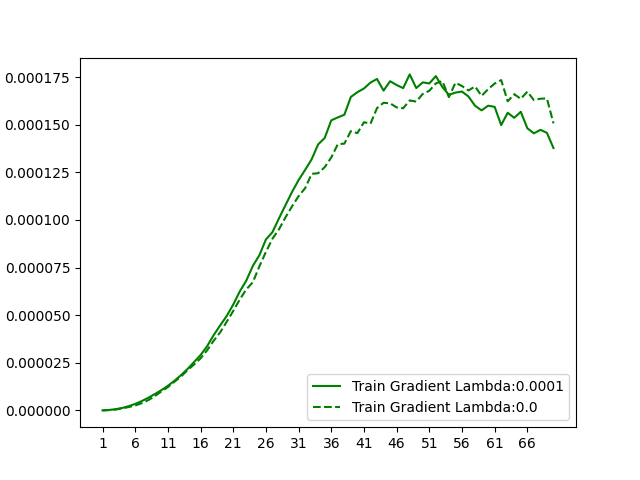
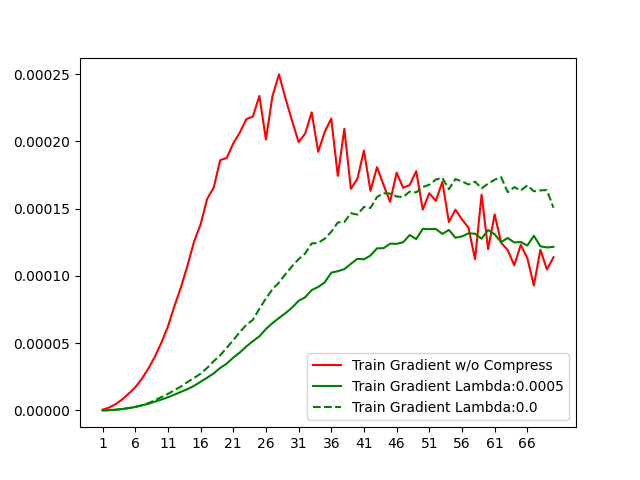
Modify Keys and Argument Parser

diff --git a/CIFAR10/split_compress_recon/plot_recloss.py b/CIFAR10/split_compress_recon/plot_recloss.py
@@ -5,44 +5,55 @@ import numpy as np
 from matplotlib.pyplot import cm
 from numpy import core
 Dir = os.path.join(os.path.dirname(__file__), "Lambda Log")
+No_Compress_Dir = os.path.join(os.path.dirname(
+    __file__), "..", "split", "log", "Gradient_Loss")
 colors = cm.rainbow(np.linspace(0, 1, 3))
 # Rec loss of The testing feature
 with open(os.path.join(Dir, 'test_rec_loss_64_0.0.csv'), 'r') as f:
     test_rec_00 = list(map(float, f.readline().split(',')))[:20]
-with open(os.path.join(Dir, 'test_rec_loss_64_0.0001.csv'), 'r') as f:
-    test_rec_00001 = list(map(float, f.readline().split(',')))[:20]
+with open(os.path.join(Dir, 'test_rec_loss_64_0.0005.csv'), 'r') as f:
+    test_rec_00005 = list(map(float, f.readline().split(',')))[:20]
+with open(os.path.join(No_Compress_Dir, 'test_rec_loss_64.csv'), 'r') as f:
+    test_rec_nocp = list(map(float, f.readline().split(',')))[:20]
 
 # Rec loss of the training feature
 with open(os.path.join(Dir, 'train_rec_loss_64_0.0.csv'), 'r') as f:
     train_rec_00 = list(map(float, f.readline().split(',')))[:20]
-with open(os.path.join(Dir, 'train_rec_loss_64_0.0001.csv'), 'r') as f:
-    train_rec_00001 = list(map(float, f.readline().split(',')))[:20]
+with open(os.path.join(Dir, 'train_rec_loss_64_0.0005.csv'), 'r') as f:
+    train_rec_00005 = list(map(float, f.readline().split(',')))[:20]
+with open(os.path.join(No_Compress_Dir, 'train_rec_loss_64.csv'), 'r') as f:
+    train_rec_nocp = list(map(float, f.readline().split(',')))[:20]
 
 # Rec loss of the training gradient
 with open(os.path.join(Dir, 'train_grad_rec_loss_64_0.0.csv'), 'r') as f:
     train_grad_rec_00 = list(map(float, f.readline().split(',')))[:70]
-with open(os.path.join(Dir, 'train_grad_rec_loss_64_0.0001.csv'), 'r') as f:
-    train_grad_rec_00001 = list(map(float, f.readline().split(',')))[:70]
+with open(os.path.join(Dir, 'train_grad_rec_loss_64_0.0005.csv'), 'r') as f:
+    train_grad_rec_00005 = list(map(float, f.readline().split(',')))[:70]
+with open(os.path.join(No_Compress_Dir, 'train_grad_rec_loss_64.csv'), 'r') as f:
+    train_grad_rec_nocp = list(map(float, f.readline().split(',')))[:70]
 
-
-plt.plot(range(1, len(train_rec_00001)+1), train_rec_00001,
-         color=colors[0], linestyle='-', label='Train Feature Lambda:0.0001')
+plt.plot(range(1, len(train_rec_nocp)+1), train_rec_nocp,
+         color=colors[1], linestyle='-', label='Train Feature w/o Compress')
+plt.plot(range(1, len(train_rec_00005)+1), train_rec_00005,
+         color=colors[0], linestyle='-', label='Train Feature Lambda:0.0005')
 plt.plot(range(1, len(train_rec_00)+1), train_rec_00,
          color=colors[0], linestyle='--', label='Train Feature Lambda:0.0')
-plt.plot(range(1, len(test_rec_00001)+1), test_rec_00001,
-         color=colors[2], linestyle='-', label='Test Feature Lambda:0.0001')
-plt.plot(range(1, len(test_rec_00)+1), test_rec_00,
-         color=colors[2], linestyle='--', label='Test Feature Lambda:0.0')
+# plt.plot(range(1, len(test_rec_00005)+1), test_rec_00005,
+#          color=colors[2], linestyle='-', label='Test Feature Lambda:0.0005')
+# plt.plot(range(1, len(test_rec_00)+1), test_rec_00,
+#          color=colors[2], linestyle='--', label='Test Feature Lambda:0.0')
 plt.legend()
-plt.xticks(range(1, len(train_rec_00001)+1))
+plt.xticks(range(1, len(train_rec_00005)+1))
 plt.savefig(os.path.join(Dir, "MSE_loss.png"))
 plt.close()
 
-plt.plot(range(1, len(train_grad_rec_00001)+1), train_grad_rec_00001,
-         color='g', linestyle='-', label='Train Gradient Lambda:0.0001')
+plt.plot(range(1, len(train_grad_rec_nocp)+1), train_grad_rec_nocp,
+         color='r', linestyle='-', label='Train Gradient w/o Compress')
+plt.plot(range(1, len(train_grad_rec_00005)+1), train_grad_rec_00005,
+         color='g', linestyle='-', label='Train Gradient Lambda:0.0005')
 plt.plot(range(1, len(train_grad_rec_00)+1), train_grad_rec_00,
          color='g', linestyle='--', label='Train Gradient Lambda:0.0')
 plt.legend()
-plt.xticks(range(1, len(train_grad_rec_00001)+1, 5))
+plt.xticks(range(1, len(train_grad_rec_00005)+1, 5))
 plt.savefig(os.path.join(Dir, "MSE_grad_loss.png"))
 plt.close()

diff --git a/CIFAR10/split_compress_recon/train_MSE.py b/CIFAR10/split_compress_recon/train_MSE.py
@@ -44,7 +44,14 @@ parser.add_argument("--epoch", required=False, type=int,
                     default=30, help="The batch size")
 parser.add_argument("--Lambda", required=False, type=float,
                     default=0.0001, help="The batch size")
+parser.add_argument("--dump_path", required=True, type=str,
+                    default='./log',
+                    help="The saved path of logs and models(Relative)")
 args = parser.parse_args()
+
+saved_path = os.path.join(Dir, args.dump_path)
+if not os.path.isdir(saved_path):
+    os.makedirs(saved_path)
 ''' 
 ********************************************
 * Data Augmentation and Dataset, DataLoader
@@ -319,51 +326,47 @@ for epoch in range(1, num_epoch+1):
         best_loss = test_CE_loss
         print("Save model with Test_acc:{:.4f} test_CE_loss:{:.4f} at {}".format(
             best_acc, best_loss, os.path.join(
-                Dir, "Alexnet.pth")))
+                saved_path, "Alexnet.pth")))
         torch.save(model.state_dict(), os.path.join(
-            Dir, "Alexnet.pth"))
+            saved_path, "Alexnet.pth"))
 
-if not os.path.isdir(os.path.join(
-        os.path.dirname(__file__), "Exponential Lambda Log")):
-    os.makedirs(os.path.join(
-        os.path.dirname(__file__), "Exponential Lambda Log"))
 # Record the train acc and train loss
 with open(os.path.join(
-        os.path.dirname(__file__), "Exponential Lambda Log", "train_accuracy_{}_{}.csv".format(args.batch, args.Lambda)), "w") as f:
+        saved_path, "train_accuracy_{}.csv".format(args.batch)), "w") as f:
     for i in range(len(train_acc_list)-1):
         f.write(str(train_acc_list[i])+",")
     f.write(str(train_acc_list[-1]))
 with open(os.path.join(
-        os.path.dirname(__file__), "Exponential Lambda Log", "train_CE_loss_{}_{}.csv".format(args.batch, args.Lambda)), "w") as f:
+        saved_path, "train_CE_loss_{}.csv".format(args.batch)), "w") as f:
     for i in range(len(train_CE_loss_list)-1):
         f.write(str(train_CE_loss_list[i])+",")
     f.write(str(train_CE_loss_list[-1]))
 
 with open(os.path.join(
-        os.path.dirname(__file__), "Exponential Lambda Log", "train_rec_loss_{}_{}.csv".format(args.batch, args.Lambda)), "w") as f:
+        saved_path, "train_rec_loss_{}.csv".format(args.batch)), "w") as f:
     for i in range(len(train_rec_loss_list)-1):
         f.write(str(train_rec_loss_list[i])+",")
     f.write(str(train_rec_loss_list[-1]))
 with open(os.path.join(
-        os.path.dirname(__file__), "Exponential Lambda Log", "train_grad_rec_loss_{}_{}.csv".format(args.batch, args.Lambda)), "w") as f:
+        saved_path, "train_grad_rec_loss_{}.csv".format(args.batch)), "w") as f:
     for i in range(len(train_grad_rec_loss_list)-1):
         f.write(str(train_grad_rec_loss_list[i])+",")
     f.write(str(train_grad_rec_loss_list[-1]))
 
 # Record the validation accuracy and validation loss
 with open(os.path.join(
-        os.path.dirname(__file__), "Exponential Lambda Log", "test_accuracy_{}_{}.csv".format(args.batch, args.Lambda)), "w") as f:
+        saved_path, "test_accuracy_{}.csv".format(args.batch)), "w") as f:
     for i in range(len(test_acc_list)-1):
         f.write(str(test_acc_list[i])+",")
     f.write(str(test_acc_list[-1]))
 
 with open(os.path.join(
-        os.path.dirname(__file__), "Exponential Lambda Log", "test_CE_loss_{}_{}.csv".format(args.batch, args.Lambda)), "w") as f:
+        saved_path, "test_CE_loss_{}.csv".format(args.batch)), "w") as f:
     for i in range(len(test_CE_loss_list)-1):
         f.write(str(test_CE_loss_list[i])+",")
     f.write(str(test_CE_loss_list[-1]))
 with open(os.path.join(
-        os.path.dirname(__file__), "Exponential Lambda Log", "test_rec_loss_{}_{}.csv".format(args.batch, args.Lambda)), "w") as f:
+        saved_path, "test_rec_loss_{}.csv".format(args.batch)), "w") as f:
     for i in range(len(test_rec_loss_list)-1):
         f.write(str(test_rec_loss_list[i])+",")
     f.write(str(test_rec_loss_list[-1]))

diff --git a/CIFAR10/split_compress/utils.py b/CIFAR10/split_compress/utils.py
@@ -43,7 +43,7 @@ def circular_conv(W, Key=None):
             dim *= W.shape[i]
         std = (1/dim) ** (1/2)
         Key = (torch.randn(W.shape)*std + mean).cuda()
-        Key /= torch.norm(Key)
+        Key /= torch.norm(Key, dim=1, keepdim=True)
         Key = Key.reshape([1, 1, Key.shape[0], -1])
         return_key = True
 

diff --git a/CIFAR10/split_compress_mask/utils.py b/CIFAR10/split_compress_mask/utils.py
@@ -47,7 +47,7 @@ def circular_conv(W, Key=None):
             dim *= W.shape[i]
         std = (1/dim) ** (1/2)
         Key = (torch.randn(W.shape)*std + mean).cuda()
-        Key /= torch.norm(Key)
+        Key /= torch.norm(Key, dim=1, keepdim=True)
         Key = Key.reshape([1, 1, Key.shape[0], -1])
         return_key = True
 

diff --git a/CIFAR10/split_compress_recon/utils.py b/CIFAR10/split_compress_recon/utils.py
@@ -43,7 +43,7 @@ def circular_conv(W, Key=None):
             dim *= W.shape[i]
         std = (1/dim) ** (1/2)
         Key = (torch.randn(W.shape)*std + mean).cuda()
-        Key /= torch.norm(Key)
+        Key /= torch.norm(Key, dim=1, keepdim=True)
         Key = Key.reshape([1, 1, Key.shape[0], -1])
         return_key = True
 

diff --git a/CIFAR10/split_compress_recon_grad/utils.py b/CIFAR10/split_compress_recon_grad/utils.py
@@ -43,7 +43,7 @@ def circular_conv(W, Key=None):
             dim *= W.shape[i]
         std = (1/dim) ** (1/2)
         Key = (torch.randn(W.shape)*std + mean).cuda()
-        Key /= torch.norm(Key)
+        Key /= torch.norm(Key, dim=1, keepdim=True)
         Key = Key.reshape([1, 1, Key.shape[0], -1])
         return_key = True
 

diff --git a/CIFAR10/split_compress_samesize/utils.py b/CIFAR10/split_compress_samesize/utils.py
@@ -43,7 +43,7 @@ def circular_conv(W, Key=None):
             dim *= W.shape[i]
         std = (1/dim) ** (1/2)
         Key = (torch.randn(W.shape)*std + mean).cuda()
-        Key /= torch.norm(Key)
+        Key /= torch.norm(Key, dim=1, keepdim=True)
         Key = Key.reshape([1, 1, Key.shape[0], -1])
         return_key = True
 
